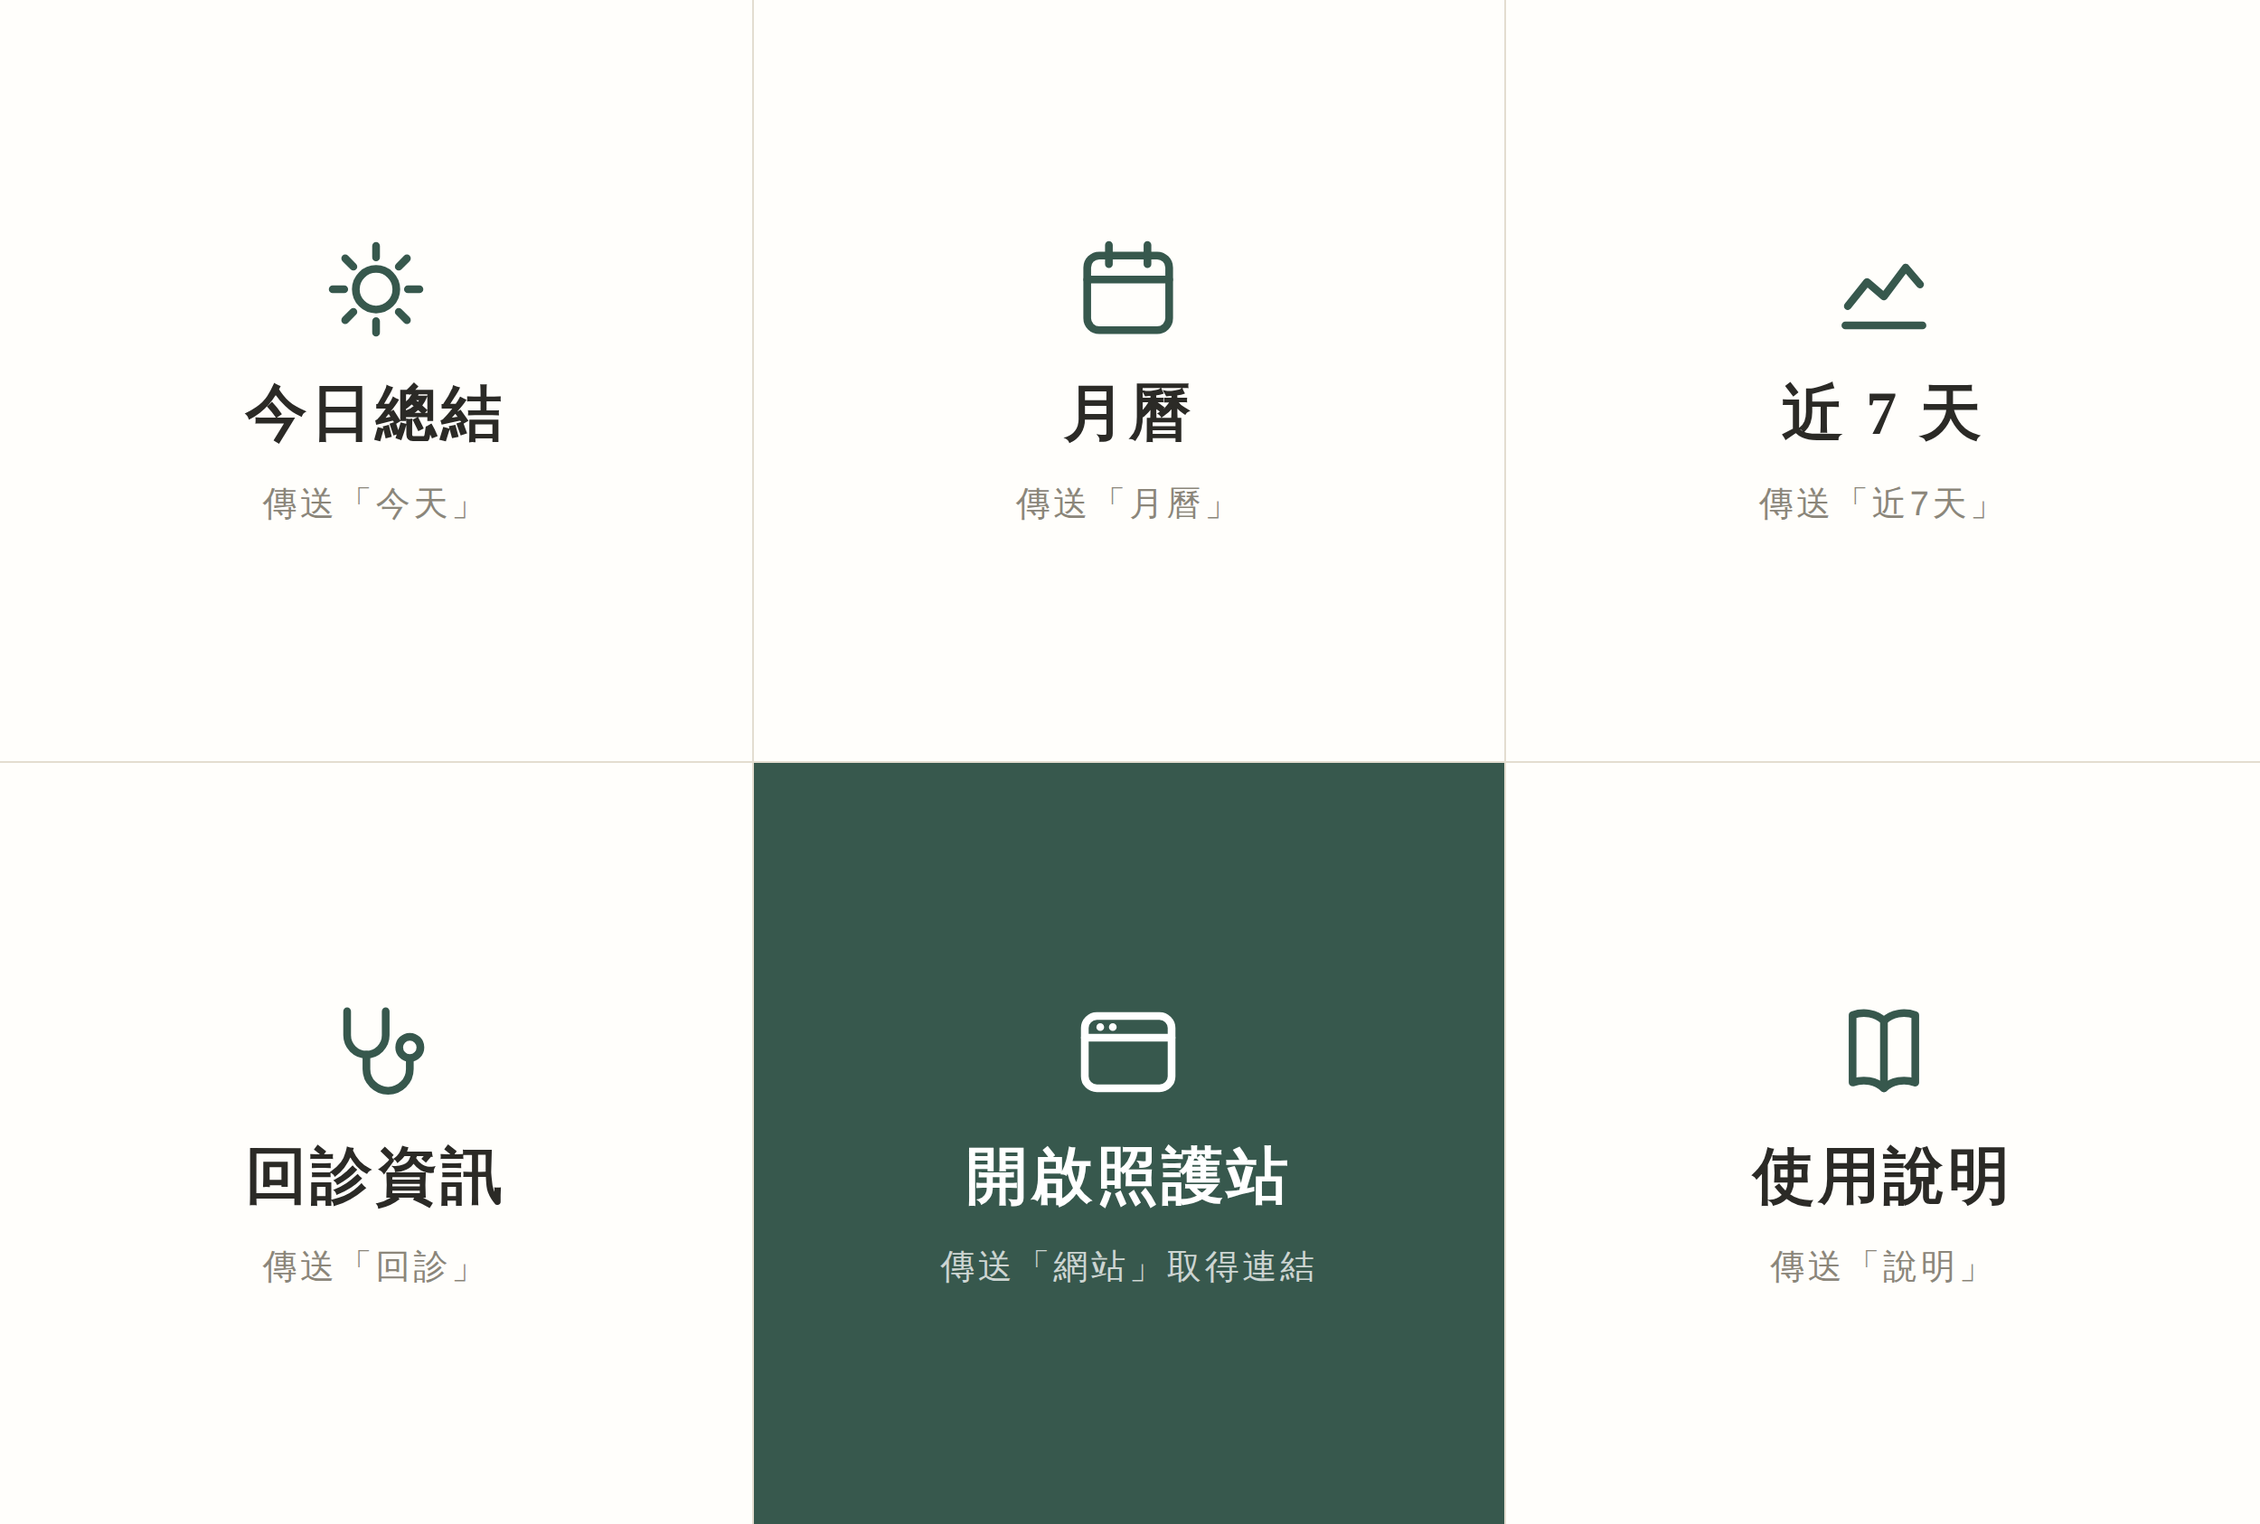
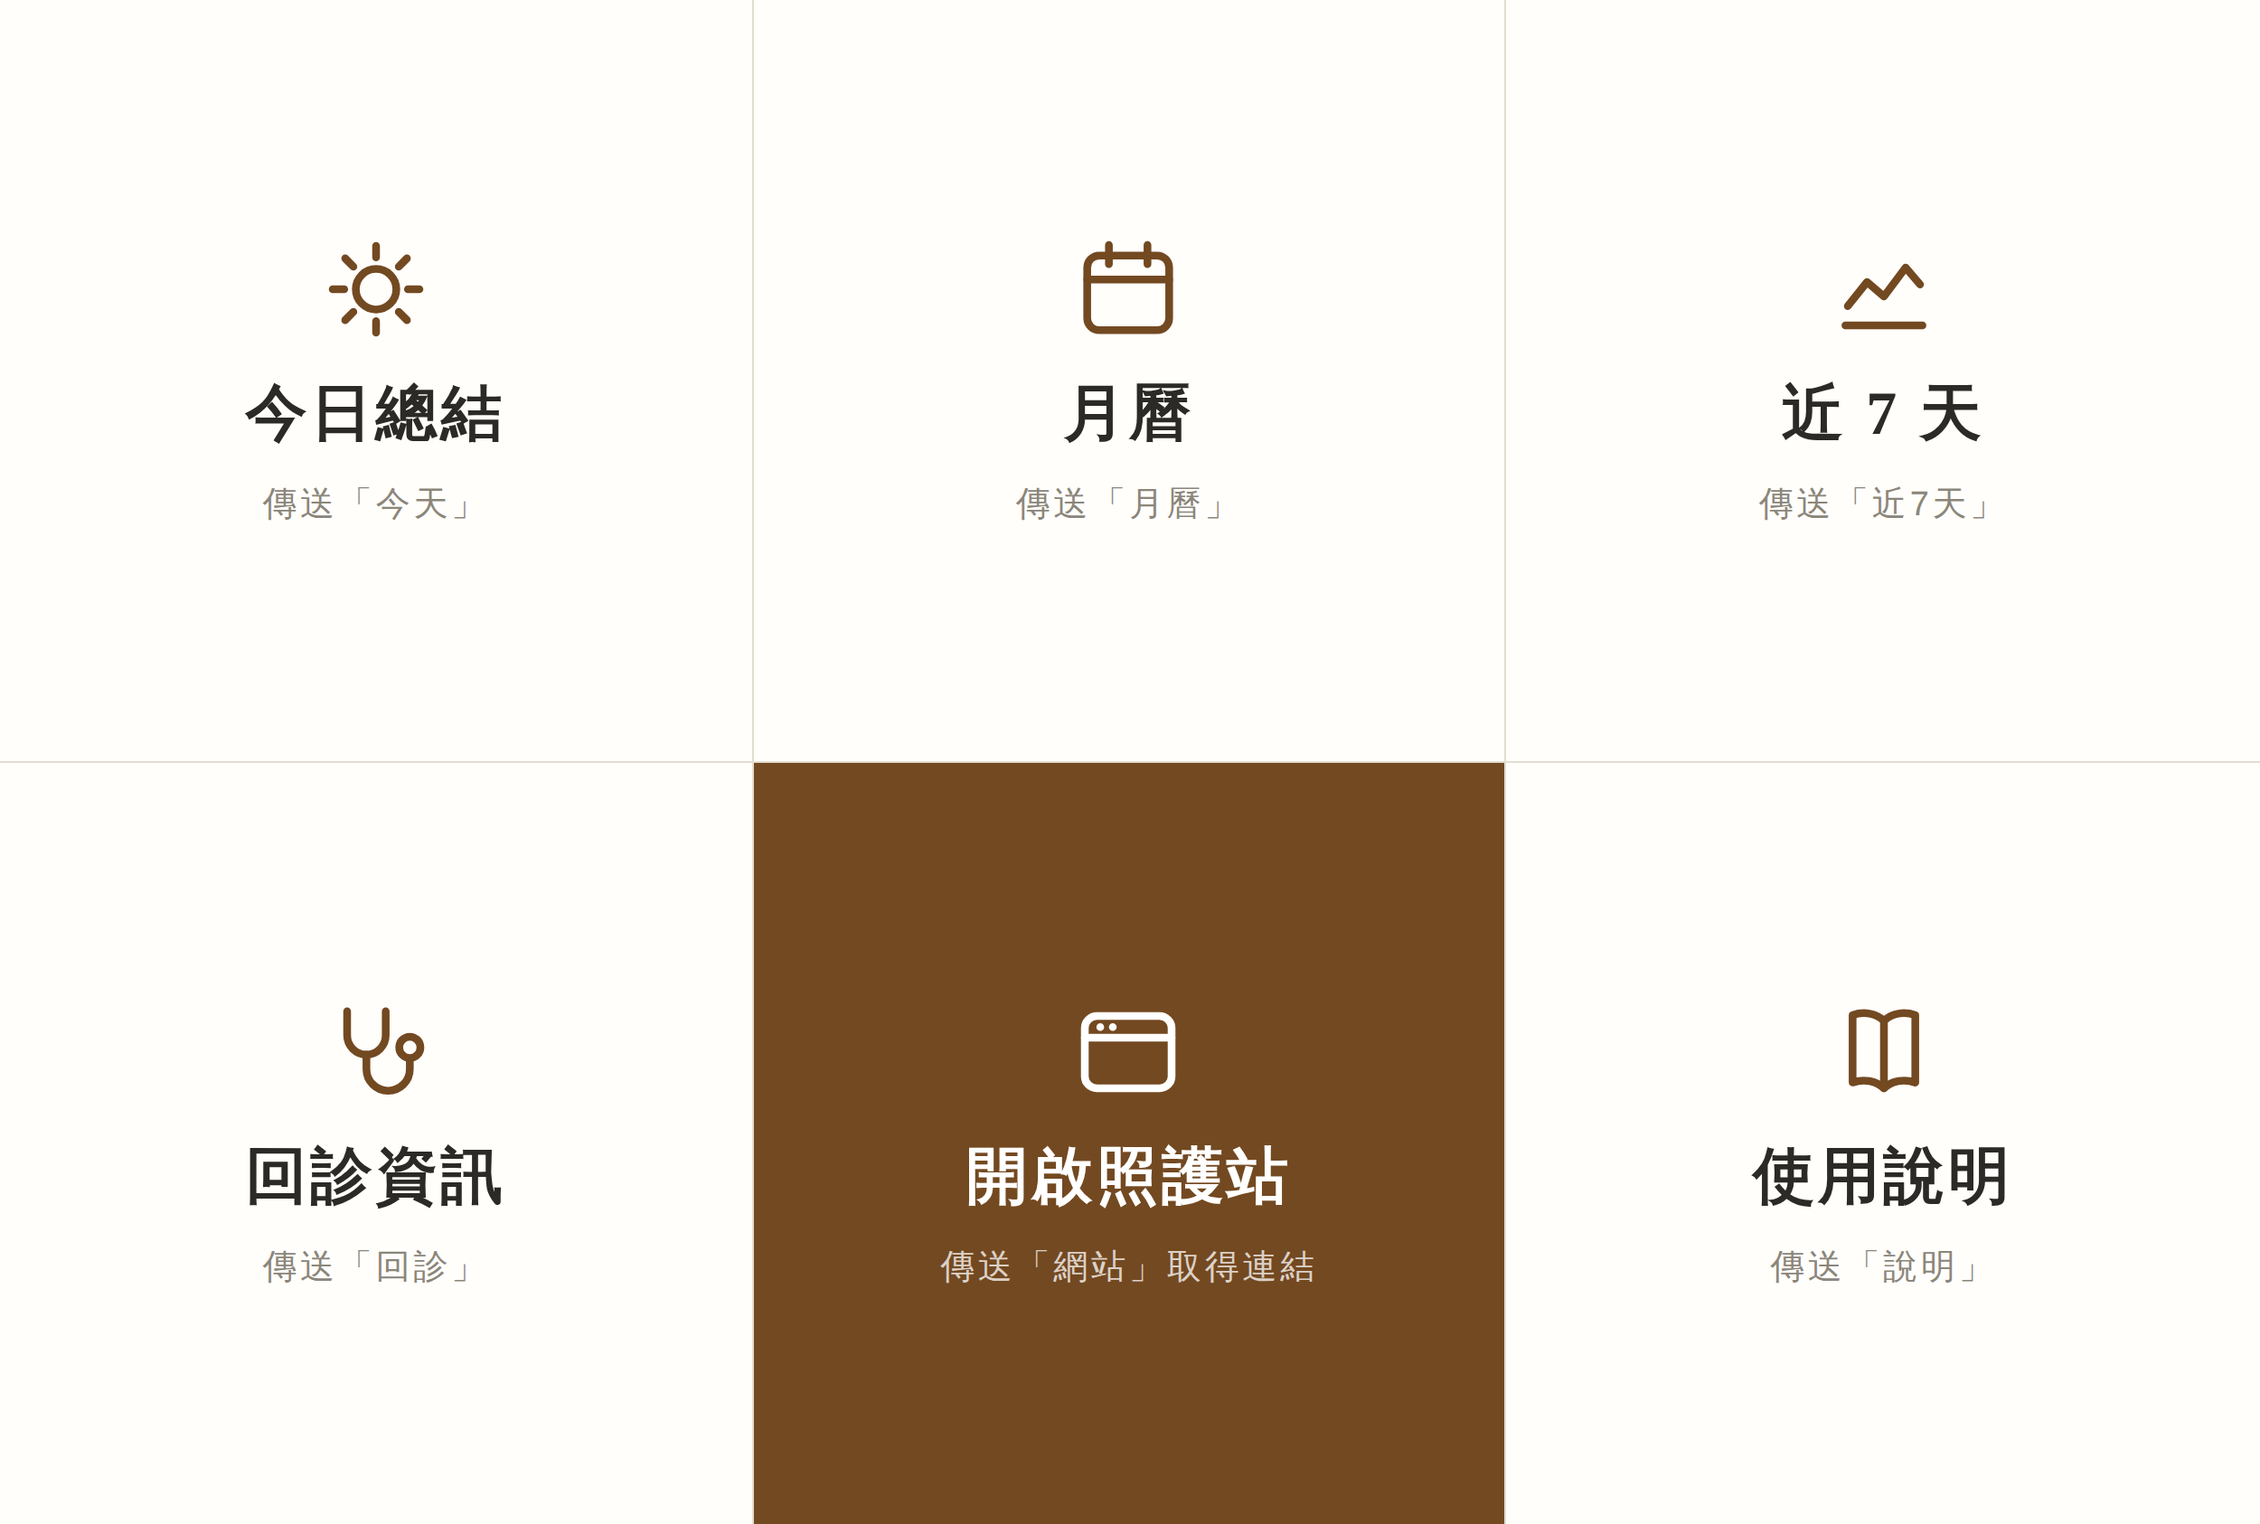
Warm rebrand: saddle brown primary, olive accents, cat illustration
- Deep pine green replaced by #734921 across tokens, buttons, focus
  glows, tints; paper ground warmed, shadows carry a warm cast
- Water chips move to sage olive; Saturday calendar numbers olive;
  vermilion seal and data-chart hues unchanged (validated)
- Minimal line-art sleeping cat on the login card; paw mark in the
  colophon; stronger warm radial glow behind the sheet
- Rich menu re-rendered in the new brown and re-published to LINE

Claude-Session: https://claude.ai/code/session_013Dg8zHNVkxNpZPR72jLgKW

diff --git a/beta/public/index.html b/beta/public/index.html
@@ -13,25 +13,25 @@
        光線是柔的：紙面浮在桌上、多層淡影、焦點與主按鈕帶光暈。
        朱紅只做印章：今天、異常，別處不出現。 */
     :root {
-      --paper-hi: #f3f1eb;       /* 桌面受光處 */
-      --paper: #e9e7df;          /* 桌面 */
+      --paper-hi: #f5efe3;       /* 桌面受光處 */
+      --paper: #eae3d3;          /* 桌面 */
       --sheet: #fdfdfb;          /* 紙面 */
-      --sheet-soft: #f8f7f2;
+      --sheet-soft: #f7f4ec;
       --ink: #1b1d1a;
       --ink-soft: #4c5049;
       --muted: #878b80;
       --line: #e2e0d6;           /* 規線 */
       --line-strong: #b8bbac;
-      --green: #23523f;          /* 松綠：結構與行動 */
-      --green-tint: #edf2ec;
+      --brand: #734921;          /* 松綠：結構與行動 */
+      --brand-tint: #f4ede0;
       --seal: #bf3b20;           /* 朱紅：印章，僅今天與異常 */
       --seal-tint: #f9ebe5;
       --serif: "Noto Serif TC", "Songti TC", "PMingLiU", serif;
       --radius: 10px;
       --radius-sm: 7px;
-      --shadow-soft: 0 1px 2px rgba(27, 29, 26, 0.04), 0 6px 18px rgba(27, 29, 26, 0.05);
-      --shadow-lift: 0 1px 3px rgba(27, 29, 26, 0.06), 0 14px 38px rgba(27, 29, 26, 0.09), 0 36px 90px rgba(27, 29, 26, 0.07);
-      --glow-green: 0 0 0 3px rgba(35, 82, 63, 0.13), 0 4px 14px rgba(35, 82, 63, 0.18);
+      --shadow-soft: 0 1px 2px rgba(58, 42, 24, 0.05), 0 7px 20px rgba(115, 73, 33, 0.07);
+      --shadow-lift: 0 1px 3px rgba(58, 42, 24, 0.06), 0 14px 38px rgba(58, 42, 24, 0.10), 0 36px 90px rgba(115, 73, 33, 0.08);
+      --glow-brand: 0 0 0 3px rgba(115, 73, 33, 0.13), 0 5px 16px rgba(115, 73, 33, 0.22);
     }
     * { box-sizing: border-box; }
     html { -webkit-text-size-adjust: 100%; background: var(--paper); }
@@ -43,7 +43,7 @@
       line-height: 1.7;
       color: var(--ink);
       background:
-        radial-gradient(1100px 480px at 50% -120px, rgba(255, 255, 255, 0.75), transparent 70%),
+        radial-gradient(1100px 480px at 50% -120px, rgba(255, 251, 242, 0.95), transparent 72%),
         linear-gradient(180deg, var(--paper-hi) 0%, var(--paper) 55%);
       background-attachment: fixed;
     }
@@ -75,6 +75,8 @@
       white-space: nowrap;
     }
     .colophon::before, .colophon::after { content: ''; flex: 1; height: 1px; background: var(--line); }
+    .colophon .paw { width: 17px; height: 15px; flex: none; }
+    .login-cat { width: 132px; margin: 0 auto 10px; display: block; opacity: 0.92; }
 
     h1 {
       margin: 0; font-family: var(--serif); font-weight: 700;
@@ -93,7 +95,7 @@
     .topbar { display: flex; flex-wrap: wrap; align-items: flex-end; gap: 12px; }
     .topbar .spacer { flex: 1; }
     .eyebrow {
-      display: inline-block; color: var(--green); font-size: 11px; font-weight: 600;
+      display: inline-block; color: var(--brand); font-size: 11px; font-weight: 600;
       letter-spacing: 0.3em; text-transform: uppercase;
     }
     .page-head { padding-top: 4px; }
@@ -108,10 +110,10 @@
       transition: color 0.15s;
     }
     .tab:hover { color: var(--ink); }
-    .tab.active { color: var(--ink); font-weight: 600; border-bottom-color: var(--green); }
+    .tab.active { color: var(--ink); font-weight: 600; border-bottom-color: var(--brand); }
     .tab:focus-visible {
       outline: none; border-radius: var(--radius-sm);
-      box-shadow: 0 0 0 3px rgba(35, 82, 63, 0.22);
+      box-shadow: 0 0 0 3px rgba(115, 73, 33, 0.22);
     }
 
     input, select, textarea, button { font: inherit; }
@@ -122,8 +124,8 @@
     }
     textarea { min-height: 72px; resize: vertical; }
     input:focus, select:focus, textarea:focus {
-      outline: none; border-color: var(--green);
-      box-shadow: inset 0 1px 2px rgba(27, 29, 26, 0.03), 0 0 0 3px rgba(35, 82, 63, 0.12);
+      outline: none; border-color: var(--brand);
+      box-shadow: inset 0 1px 2px rgba(27, 29, 26, 0.03), 0 0 0 3px rgba(115, 73, 33, 0.12);
     }
     label {
       font-size: 11.5px; font-weight: 600; letter-spacing: 0.14em; color: var(--ink-soft);
@@ -135,10 +137,10 @@
       transition: background 0.15s, border-color 0.15s, color 0.15s, box-shadow 0.15s;
     }
     .btn-primary {
-      background: linear-gradient(180deg, #2b604a, var(--green)); color: #fff;
-      box-shadow: 0 1px 2px rgba(27, 29, 26, 0.15), 0 6px 16px rgba(35, 82, 63, 0.28);
+      background: linear-gradient(180deg, #8a5a2c, var(--brand)); color: #fff;
+      box-shadow: 0 1px 2px rgba(27, 29, 26, 0.15), 0 6px 16px rgba(115, 73, 33, 0.28);
     }
-    .btn-primary:hover { background: linear-gradient(180deg, #24523f, #1a3f30); box-shadow: var(--glow-green); }
+    .btn-primary:hover { background: linear-gradient(180deg, #734921, #5a3617); box-shadow: var(--glow-brand); }
     .btn-secondary {
       background: var(--sheet); border-color: var(--line-strong); color: var(--ink-soft);
       box-shadow: 0 1px 2px rgba(27, 29, 26, 0.05);
@@ -147,7 +149,7 @@
     .btn-danger { background: transparent; color: var(--seal); }
     .btn-danger:hover { background: var(--seal-tint); }
     .btn-sm { padding: 5px 12px; font-size: 13px; }
-    .btn:focus-visible { outline: none; box-shadow: 0 0 0 3px rgba(35, 82, 63, 0.25); }
+    .btn:focus-visible { outline: none; box-shadow: 0 0 0 3px rgba(115, 73, 33, 0.25); }
     .grid { display: grid; gap: 10px; }
     .grid-2 { grid-template-columns: 1fr 1fr; }
     .grid-4 { grid-template-columns: repeat(4, minmax(0, 1fr)); }
@@ -156,7 +158,7 @@
     .stat-grid { grid-template-columns: repeat(5, minmax(0, 1fr)); gap: 12px; }
     .card {
       padding: 15px 17px 13px; border-radius: var(--radius);
-      background: linear-gradient(180deg, #ffffff, var(--sheet-soft));
+      background: linear-gradient(180deg, #ffffff 0%, var(--sheet-soft) 100%);
       border: 1px solid var(--line); box-shadow: var(--shadow-soft);
     }
     .stat-label { color: var(--muted); font-size: 11.5px; font-weight: 600; letter-spacing: 0.16em; }
@@ -193,7 +195,7 @@
     .entry-actions { display: flex; gap: 4px; }
     /* 區塊卡：每個段落用柔影優雅區隔 */
     .block {
-      background: linear-gradient(180deg, #ffffff, var(--sheet-soft));
+      background: linear-gradient(180deg, #ffffff 0%, var(--sheet-soft) 100%);
       border: 1px solid var(--line); border-radius: var(--radius);
       box-shadow: var(--shadow-soft);
       padding: 18px 20px; margin-top: 24px;
@@ -201,11 +203,11 @@
     .block .section-head { margin-top: 0; margin-bottom: 10px; }
     .block .empty { background: none; border: none; padding: 18px 8px; }
     /* 類別色：低飽和的莫蘭迪色分類 */
-    .chip-water { background: #edf3f6; color: #47708a; border-color: #cfdfe8; }
+    .chip-water { background: #eef1e1; color: #5d6c36; border-color: #dae0c3; }
     .chip-dry { background: #f5f1e3; color: #7a662f; border-color: #e3d9bd; }
     .chip-wet { background: #f7efe4; color: #8a5e35; border-color: #e8d7c0; }
     .chip-kcal { background: #f8f2e5; color: #91702f; border-color: #ecdfc0; }
-    .chip-med { background: var(--green-tint); color: var(--green); border-color: rgba(35, 82, 63, 0.3); }
+    .chip-med { background: var(--brand-tint); color: var(--brand); border-color: rgba(115, 73, 33, 0.35); }
     .chip-neutral { background: var(--sheet-soft); color: var(--ink-soft); border-color: var(--line-strong); }
     .empty {
       padding: 30px 20px; border: 1px dashed var(--line-strong); border-radius: var(--radius);
@@ -213,9 +215,9 @@
     }
     .doctor-note {
       margin-top: 20px; padding: 16px 20px;
-      border: 1px solid rgba(35, 82, 63, 0.14); border-left: 3px solid var(--green);
+      border: 1px solid rgba(115, 73, 33, 0.14); border-left: 3px solid var(--brand);
       border-radius: var(--radius-sm) var(--radius) var(--radius) var(--radius-sm);
-      background: linear-gradient(135deg, var(--green-tint), rgba(255, 255, 255, 0.7));
+      background: linear-gradient(135deg, var(--brand-tint), rgba(255, 255, 255, 0.7));
       box-shadow: var(--shadow-soft);
       line-height: 1.75; color: var(--ink-soft); font-size: 14px;
     }
@@ -224,9 +226,9 @@
     .section-head h2 { margin: 0; flex: 1; }
     .visit-item {
       display: flex; align-items: flex-start; gap: 12px; padding: 13px 16px;
-      border: 1px solid rgba(35, 82, 63, 0.14); border-left: 3px solid var(--green);
+      border: 1px solid rgba(115, 73, 33, 0.14); border-left: 3px solid var(--brand);
       border-radius: var(--radius-sm) var(--radius) var(--radius) var(--radius-sm);
-      background: linear-gradient(180deg, #ffffff, var(--green-tint));
+      background: linear-gradient(180deg, #ffffff, var(--brand-tint));
       box-shadow: var(--shadow-soft);
     }
     .visit-item .info { flex: 1; min-width: 0; }
@@ -243,17 +245,17 @@
     }
     /* 月誌慣例：週日朱、週六綠 */
     .cal-dow:nth-child(1) { color: rgba(191, 59, 32, 0.7); }
-    .cal-dow:nth-child(7) { color: rgba(35, 82, 63, 0.75); }
+    .cal-dow:nth-child(7) { color: rgba(106, 116, 64, 0.85); }
     .cal-cell:nth-child(7n+8):not(.today) .cal-daynum { color: rgba(191, 59, 32, 0.8); }
-    .cal-cell:nth-child(7n+14):not(.today) .cal-daynum { color: rgba(35, 82, 63, 0.85); }
+    .cal-cell:nth-child(7n+14):not(.today) .cal-daynum { color: rgba(106, 116, 64, 0.95); }
     .cal-cell {
       min-height: 84px; border-radius: var(--radius); border: 1px solid var(--line);
-      background: linear-gradient(180deg, #ffffff, var(--sheet-soft));
+      background: linear-gradient(180deg, #ffffff 0%, var(--sheet-soft) 100%);
       box-shadow: 0 1px 2px rgba(27, 29, 26, 0.03);
       padding: 7px 9px; font-size: 11px; cursor: pointer;
       overflow: hidden; transition: box-shadow 0.15s, border-color 0.15s;
     }
-    .cal-cell:hover { border-color: rgba(35, 82, 63, 0.55); box-shadow: var(--shadow-soft); }
+    .cal-cell:hover { border-color: rgba(115, 73, 33, 0.55); box-shadow: var(--shadow-soft); }
     .cal-cell.blank { visibility: hidden; }
     .cal-daynum {
       font-family: var(--serif); font-weight: 600; font-size: 16px; font-variant-numeric: tabular-nums;
@@ -343,7 +345,7 @@
     .login-steps { margin: 28px auto 0; max-width: 320px; text-align: left; }
     .login-step { display: flex; gap: 14px; align-items: baseline; padding: 11px 2px; border-bottom: 1px solid var(--line); }
     .login-step:last-child { border-bottom: none; }
-    .login-step .num { font-family: var(--serif); color: var(--green); font-weight: 600; font-size: 15px; }
+    .login-step .num { font-family: var(--serif); color: var(--brand); font-weight: 600; font-size: 15px; }
 
     @media (max-width: 760px) {
       .shell { padding-top: 14px; }
@@ -364,6 +366,15 @@
     <!-- 登入畫面 -->
     <section id="loginView" class="login-wrap hidden">
       <div class="panel login-card">
+        <svg class="login-cat" viewBox="0 0 140 90" fill="none" stroke="var(--brand)" stroke-width="2.2" stroke-linecap="round" stroke-linejoin="round" aria-hidden="true">
+          <path d="M30 66 C16 52 24 28 52 24 C76 20 96 28 100 44 C103 56 95 64 82 66 C62 70 44 70 30 66 Z"/>
+          <circle cx="103" cy="38" r="15"/>
+          <path d="M92 28 L89 16 L100 24"/>
+          <path d="M108 25 L114 14 L117 27"/>
+          <path d="M97 39 q3 2.5 6 0"/>
+          <path d="M107 39 q3 2.5 6 0"/>
+          <path d="M30 66 C20 66 15 58 21 52 C25 48 31 50 30 56"/>
+        </svg>
         <div class="eyebrow">Cat Care · Beta</div>
         <h1 style="margin-top:14px">貓貓照護站</h1>
         <p class="muted" style="margin-top:10px">請先從 LINE 取得登入連結</p>
@@ -489,7 +500,7 @@
         <div class="grid" id="settingsList"></div>
       </section>
 
-      <footer class="colophon">輕鬆記錄守護毛孩</footer>
+      <footer class="colophon"><svg class="paw" viewBox="0 0 18 16" aria-hidden="true"><ellipse cx="9" cy="11" rx="4.2" ry="3.4" fill="var(--brand)" opacity="0.75"/><circle cx="3.4" cy="6.4" r="1.9" fill="var(--brand)" opacity="0.55"/><circle cx="9" cy="4.6" r="1.9" fill="var(--brand)" opacity="0.55"/><circle cx="14.6" cy="6.4" r="1.9" fill="var(--brand)" opacity="0.55"/></svg>輕鬆記錄守護毛孩</footer>
     </div>
   </div>
 
@@ -1058,7 +1069,7 @@
       if (refHigh > 0) {
         const top = Math.max(padT, y(Math.min(refHigh, yMax)));
         const bottom = Math.min(padT + innerH, y(Math.max(refLow, yMin)));
-        band = `<rect x="${padL}" y="${top.toFixed(1)}" width="${innerW}" height="${Math.max(0, bottom - top).toFixed(1)}" fill="var(--green-tint)" opacity="0.8"></rect>`;
+        band = `<rect x="${padL}" y="${top.toFixed(1)}" width="${innerW}" height="${Math.max(0, bottom - top).toFixed(1)}" fill="var(--brand-tint)" opacity="0.8"></rect>`;
       }
       let grid = `<line x1="${padL}" y1="${padT + innerH}" x2="${W - padR}" y2="${padT + innerH}" stroke="var(--line-strong)" stroke-width="1"></line>`;
       grid += `<text x="${padL - 6}" y="${y(yMax) + 9}" text-anchor="end" font-size="10" fill="var(--muted)">${fmt(yMax)}</text>`;

diff --git a/beta/richmenu/richmenu.html b/beta/richmenu/richmenu.html
@@ -10,8 +10,8 @@
     --ink: #2b2a26;
     --muted: #8b867a;
     --line: #e3ddd0;
-    --brand: #37584d;
-    --brand-deep: #2b463d;
+    --brand: #734921;
+    --brand-deep: #5a3617;
   }
   * { margin: 0; padding: 0; box-sizing: border-box; }
   body {
